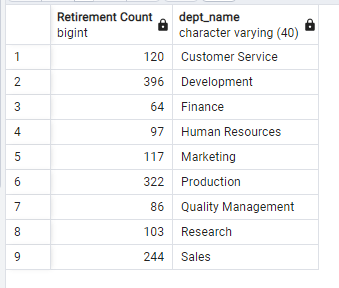
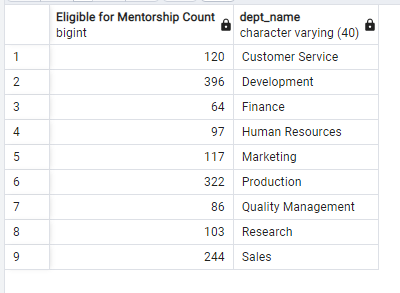
Final Update

Changed region(s): [[0.0, 0.0, 0.944, 0.9375]]

diff --git a/README.md b/README.md
@@ -5,17 +5,22 @@ SQL using Postgres
 Using Postgres determine the number of retiring employees per title, and identify employees who are eligible to participate in a mentorship program.
 
 ## Results:
-Provide a bulleted list with four major points from the two analysis deliverables. Use images as support where needed.
+Below are four major points gathered from the two part analysis described above.
 - Nearly a third of PH's employees will be or are retirement age. 
   - Current Employees: 240124
+![image_name](Resources/Total Current Employees.png)
   - Retiring: 72458
+![image_name](Resources/Total Retiring Employees.png)
 - Currently PH only has 1550 eligible replacements through mentorship eligibility compared to the retiring 72458
 - The majority of retirees will be Senior Engineers and Senior Staff
-- Point 4
+![image_name](Resources/retirements_by_department.png)
+
+- There is a surprisingly small amount of "Managers" in the group of retirees
 
 ## Summary:
-- How many roles will need to be filled as the "silver tsunami" begins to make an impact?
-  - As shown in the results 72458 or nearly a third of PH's employees will be or are retire age.
+To summerize many roles will need to be filled as the "silver tsunami" begins to make an impact. As described in the results 72458 or nearly a third of PH's employees will be or are retirement age.
 
-- Are there enough qualified, retirement-ready employees in the departments to mentor the next generation of Pewlett Hackard employees?
-  - Each department has a substantial number of retirees available for mentoring, lack the employee numbers of available people to be mentored.
+There are enough qualified, retirement-ready employees in almost all the departments to mentor the next generation of Pewlett Hackard employees. Besides "Manager" roles each department has a substantial number of retirees available for mentoring, but lack the employee numbers of available people to be mentored.
+![image_name](Resources/mentorship_by_department.png)
+
+In addition, the following tables have been provided to assist in an informed plan to move forward. "retirements_by_department.csv" is a table showing retirement counts by Department and "mentorship_by_department.csv" shows employees eligible for mentorship counts by Department
